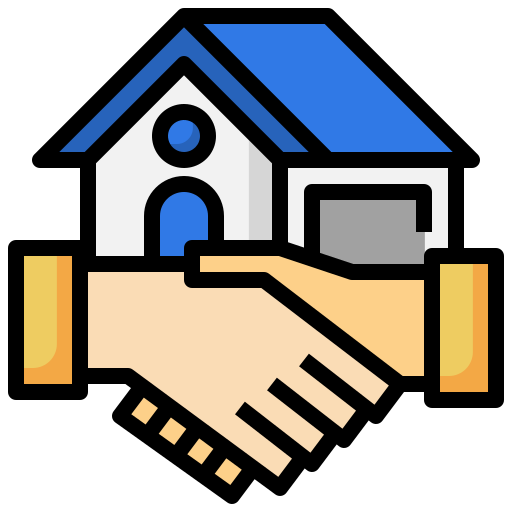
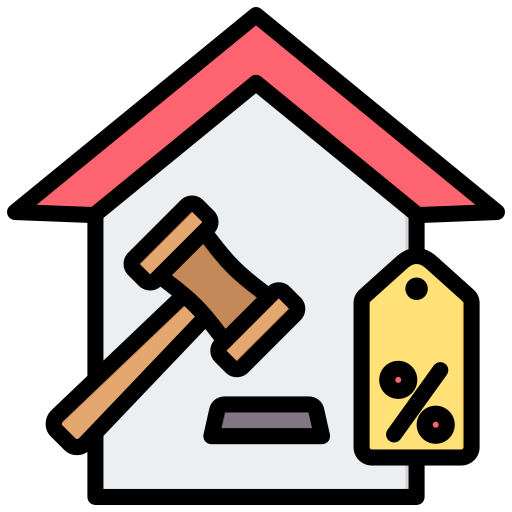
Update Site source

diff --git a/app/Discovery.tsx b/app/Discovery.tsx
@@ -22,7 +22,7 @@ export function DiscoveryHome({data,onOpen,onView,onPractice}:{data:DiscoveryDat
  <div className="spotlight-layout"><section className={'monthly-spotlight'+(top&&attorneyPhoto(top.bar_number,top.photo_key)?' has-portrait':'')}><div className="spotlight-art" aria-hidden="true"><div className="spotlight-ring"/>{top&&attorneyPhoto(top.bar_number,top.photo_key)?<img className="spotlight-photo" src={attorneyPhoto(top.bar_number,top.photo_key)} alt=""/>:<span>{top?initials(top.name):'CC'}</span>}<div className="column-lines"><i/><i/><i/><i/><i/></div></div><div className="spotlight-copy"><p className="section-kicker">COUNSELCHECK SPOTLIGHT · {data.monthLabel}</p><h1>{top?'Lawyer of the month':'A clearer picture.\nA better starting point.'}</h1>{top?<><p className="spotlight-name">{top.name}</p><p className="spotlight-firm">{top.company&&<FirmLink name={top.company}/>}</p><p className="spotlight-location">{top.city}, Georgia</p><div className="spotlight-score"><strong>#{top.rank}</strong><span>{ties>1?'Joint most searched':'Most searched'} this month</span></div><button className="gold-button" onClick={()=>onOpen(top)}>Explore attorney</button></>:<><p className="spotlight-description">Find the people behind Georgia’s legal community. Explore their professional records and build your shortlist.</p><a className="gold-button" href="#attorney-search">Find an attorney</a><p className="spotlight-pending">Lawyer of the month appears here once searches begin.</p></>}<p className="spotlight-footnote">Based on CounselCheck searches. Popularity is not a measure of legal ability.</p></div></section>
 </div>
  <section className="discovery-section"><SectionTitle eyebrow="The weekly chart" title="Most popular attorneys" action="Explore the chart" onAction={()=>onView('charts')}/><p className="section-description">The most searched active attorneys on CounselCheck over the last 7 days.</p>{data.weekly.length?<PopularAttorneys attorneys={data.weekly} onOpen={onOpen}/>:<EmptyChart/>}</section>
- <section className="discovery-section" id="practice-areas"><SectionTitle eyebrow="Find the right kind of help" title="Explore by practice area"/><p className="section-description">{practiceCoverage}</p><div className="practice-grid">{practiceAreas.map((area,i)=><button className="practice-tile" key={area.id} onClick={()=>onPractice(area.id)}><span className="practice-number">{String(i+1).padStart(2,'0')}</span><strong>{area.name}</strong><span>{area.description}</span><b aria-hidden="true">{['business-law','estate-planning','personal-injury','family-law'].includes(area.id)?<img className="practice-tile-icon" src={'/practice-icons/'+area.id+'.png'} alt=""/>:'↗'}</b></button>)}</div></section>
+ <section className="discovery-section" id="practice-areas"><SectionTitle eyebrow="Find the right kind of help" title="Explore by practice area"/><p className="section-description">{practiceCoverage}</p><div className="practice-grid">{practiceAreas.map((area,i)=><button className="practice-tile" key={area.id} onClick={()=>onPractice(area.id)}><span className="practice-number">{String(i+1).padStart(2,'0')}</span><strong>{area.name}</strong><span>{area.description}</span><b aria-hidden="true">{['business-law','estate-planning','personal-injury','family-law','litigation'].includes(area.id)?<img className="practice-tile-icon" src={'/practice-icons/'+area.id+'.png'} alt=""/>:'↗'}</b></button>)}</div></section>
  <SettlementNews/>
  <section className="discovery-section firm-feature"><SectionTitle eyebrow="The firms behind the names" title="Most searched firms" action="All rankings" onAction={()=>onView('charts')}/><p className="section-description">Search interest in firms and their attorneys over the last 7 days.</p>{data.weeklyFirms.length?<div className="firm-ranking-grid">{data.weeklyFirms.slice(0,6).map(f=><article className="firm-rank-card" key={f.firm_key}><span className="firm-position">{String(f.rank).padStart(2,'0')}</span><div><h3><FirmLink name={f.name}/></h3></div><span className="firm-card-arrow" aria-hidden="true">›</span></article>)}</div>:<EmptyChart firm/>}</section>
  <section className="shortlist-banner"><div><p className="section-kicker">YOUR LIST. YOUR RESEARCH.</p><h2>Keep the names.<br/>Compare the details.</h2><p>Save attorneys to your private shortlist, then compare up to three professional records side by side.</p><button className="gold-button" onClick={()=>onView('shortlist')}>Open your shortlist {s.attorneys.length>0&&`(${s.attorneys.length})`}</button></div><div className="shortlist-illustration" aria-hidden="true"><div><span>01</span><i/><i/><b>✓ Saved</b></div><div><span>02</span><i/><i/><b>✓ Saved</b></div><div><span>03</span><i/><i/><b>+ Compare</b></div></div></section>
